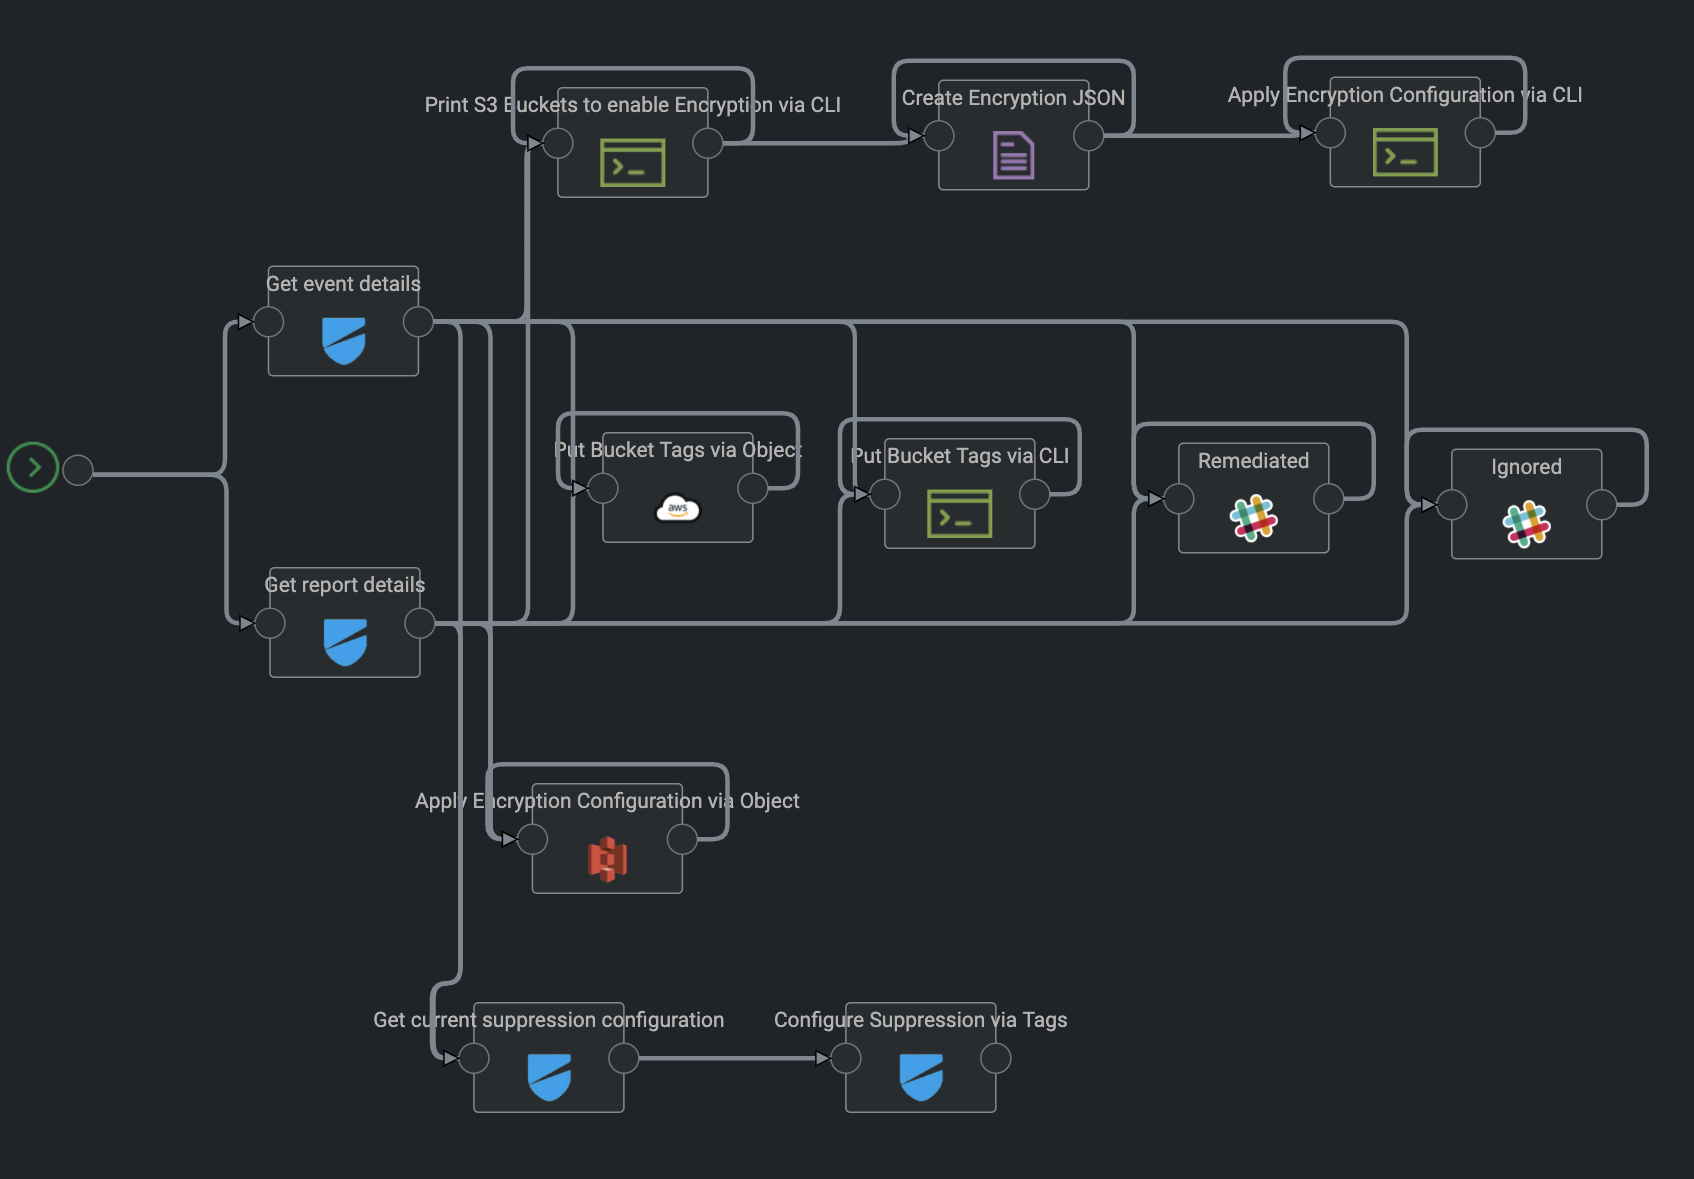
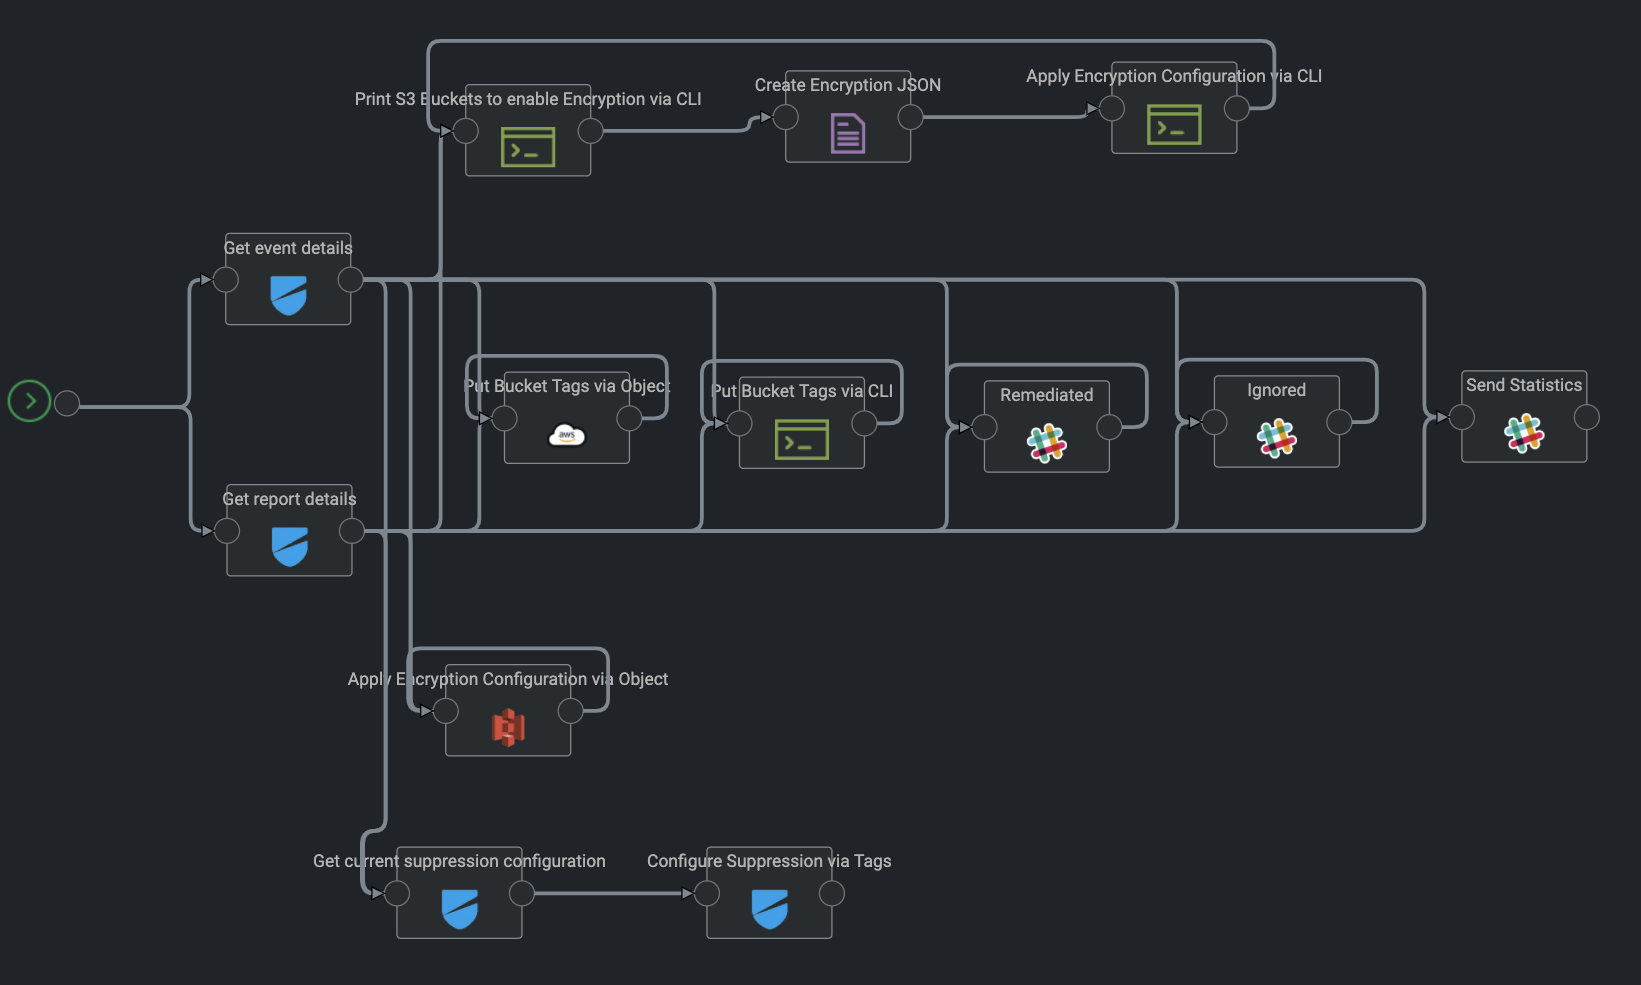
Adding new version of LW_S3_14
single actions and new slack statistic object

Changed region(s): [[0.0932, 0.2132, 0.9945, 0.9442], [0.2176, 0.0305, 0.9324, 0.1827], [0.0, 0.3655, 0.1554, 0.4264]]

diff --git a/maps/compliance/aws/LW_S3_14/README.md b/maps/compliance/aws/LW_S3_14/README.md
@@ -51,15 +51,14 @@ The **LW_S3_14** map currently has the following map design:
 
 * The map will start with the **Get event details** object when it was triggered by the [Lacework Trigger](https://github.com/Kaholo/kaholo-trigger-lacework). It will use the **event_id** send by the [Webhook payload](https://support.lacework.com/hc/en-us/articles/360034367393-Webhook), using the **Lacework API Access Key(s)** and  **Lacework Secret Key(s)** from the Kaholo vault that you used to configure the [Lacework Plugin](https://github.com/Kaholo/kaholo-plugin-lacework) to connect to the API. The Method **Get event details** will create a [temporary API token](https://support.lacework.com/hc/en-us/articles/360011403853-Generate-API-Access-Keys-and-Tokens). This token is used to query the [Lacework API](https://lwcs.lacework.net/api/v1/external/docs) via the API call **/api/v1/external/events/GetEventDetails** of the configured [Lacework Plugin](https://github.com/Kaholo/kaholo-plugin-lacework) host instance. The return value of this API call is the complete Event Payload you can use within the Map.
 * The map will start with the **Get report details** object when the map was manually started by a user of the map. It will use the **Lacework API Access Key(s)** and  **Lacework Secret Key(s)** from the Kaholo vault that you used to configure the [Lacework Plugin](https://github.com/Kaholo/kaholo-plugin-lacework). The Method **GetLatestAWSComplianceReportDetails** will create a [temporary API token](https://support.lacework.com/hc/en-us/articles/360011403853-Generate-API-Access-Keys-and-Tokens). This token is used to query the [Lacework API](https://lwcs.lacework.net/api/v1/external/docs) via the API call **/api/v1/external/compliance/aws/GetLatestComplianceReport** for the **reporttype** of the **LaceworkConfig**  configured [Lacework Plugin](https://github.com/Kaholo/kaholo-plugin-lacework) host instance that is using the **aws_account_id** of the **LaceworkConfig** as a parameter.
-* The map will trigger the **Delete Bucket Policy via CLI** CommandLine object If you enabled the Auto Remediation inside the LaceworkConfig of the map by using the **"dothedeletebucketpolicyremediationviacli": "true"** setting. It will print out the name of the S3 buckets that will be remediated, creates a backup of the current bucket policy of each S3 bucket inside the folder **backupfolder** of the LaceworkConfig and uses the AWS CLI to delete the Bucket Policy of the S3 buckets affected.
-* The map will trigger the **Create Backup via CLI**, **Create the news JSON file** and  **Replace Bucket Policy via CLI** CommandLine object If you enabled the Auto Remediation inside the LaceworkConfig of the map by using the **"dothereplacebucketpolicyremediationviacli": "true"** setting. It will print out the name of the S3 buckets that will be remediated, creates a backup of the current bucket policy of each S3 bucket inside the folder **backupfolder** of the LaceworkConfig, uses the Kaholo TextEditor Object to create a new Bucket Policy inside the **inputfolder** of the LaceworkConfig and uses the AWS CLI to put the new bucket policy of the JSON file to the S3 buckets affected.
-* The map will trigger the **Backup Bucket Policy via Object** and **Delete Bucket Policy via Object option** Amazon-aws-s3 object If you enabled the Auto Remediation inside the LaceworkConfig of the map by using the **"dothedeletebucketpolicyremediationviaobject": "true"** setting. It will remediate all S3 buckets by first creating a Backup of the Bucket Policy using the Method **"Get Bucket Policy"** from the [S3 bucket plugin](https://github.com/Kaholo/kaholo-plugin-amazon-s3). After that it will delete the bucket policy of the S3 bucket by using the Method **"Delete Bucket Policy"** from the [S3 bucket plugin](https://github.com/Kaholo/kaholo-plugin-amazon-s3).
-* The map will trigger the **Backup Bucket Policy via Object**, **Create the new JSON** and **Replace Bucket Policy via Object option** Amazon-aws-s3 object If you enabled the Auto Remediation inside the LaceworkConfig of the map by using the **"dothereplacebucketpolicyremediationviaobject": "true"** setting. It will remediate all S3 buckets by first creating a Backup of the Bucket Policy using the Method **"Get Bucket Policy"** from the [S3 bucket plugin](https://github.com/Kaholo/kaholo-plugin-amazon-s3). After that it will create a new Bucket Policy JOSN file for documentation by using the [Text Editor plugin](https://github.com/Kaholo/kaholo-plugin-textEditor) The last object will delete the bucket policy of the S3 bucket by using the Method **"Delete Bucket Policy"** from the [S3 bucket plugin](https://github.com/Kaholo/kaholo-plugin-amazon-s3).
+* The map will trigger the **Print S3 Buckets to enable Encryption via CLI**, **Create Encryption via JSON** and  **Apply Encryption Configuration via CLI** CommandLine object If you enabled the Auto Remediation inside the LaceworkConfig of the map by using the **"dothereplacebucketpolicyremediationviacli": "true"** setting. It will print out the name of the S3 buckets that will be remediated, uses the Kaholo TextEditor Object to create a new Bucket Policy inside the **inputfolder** of the LaceworkConfig and uses the AWS CLI to put the new bucket encryption configuration of the JSON file to the S3 buckets affected.
+* The map will trigger the **Apply Encryption Configuration via Object** Amazon-aws-s3 object If you enabled the Auto Remediation inside the LaceworkConfig of the map by using the **"dothedeletebucketpolicyremediationviaobject": "true"** setting. It will remediate all S3 buckets by enable the Encryption of the S3 bucket by using the **"Manage Bucket Encryption"** from the [S3 bucket plugin](https://github.com/Kaholo/kaholo-plugin-amazon-s3).
 * The map will trigger the **Put Bucket Tags via Object** object if you configured the **putbuckettaggingviaobject** of the **LaceworkConfig** equals **true**. It will use the **tagname** and **tagvalue** to put these tags for every bucket that is in violation with the rule and ignored via the **bucketIgnoreList** of the **LaceworkConfig**.
 * The map will trigger the **Put Bucket Tags via CLI** object if you configured the **putbuckettaggingviacli** of the **LaceworkConfig** equals **true**. It will use the **tagname** and **tagvalue** to put these tags for every bucket that is in violation with the rule and ignored via the **bucketIgnoreList** of the **LaceworkConfig**.
 * The map will send out a Slack message for each S3 bucket that will be remediated to the Webhook you configured by using the **Remediated** Slack object.
 * If you enabled the configuration to send out slack messages for ignored S3 buckets inside the LaceworkConfig of the map to **"sendslackmessagesforignored": "true"** it will send out a slack message for each bucket that is violating the policy and ignored by the configuration to the Webhook you configured for the **Ignored** Slack object.
 * The map will trigger the **Get current suppression configuration** if you configured the **configuresuppressiononpolicy** equals **true**. It will read out the current suppression configuration for the **rec_id** and reconfigure it with the object **Configure Suppression via Tags** to the configuration **tagname**, **tagvalue** and **suppressionpolicycomment** if the current tag name is not equal **tagname** and/or the current tag value is not equal **tagvalue**.
+* The map will trigger the **Send Statistics** if you configured the **sendslackstatistics** equals **true** it will send out some statistics about number of S3 buckets violating the policy, number of S3 buckets that will be remediated, number of S3 buckets that will be ignored and the total number of S3 buckets that are configured to be ignored if they are a resource of this event.
 
 ### Map trigger
 
@@ -92,7 +91,9 @@ By default the map has the following configurations:
     "reportuuid": "0ada522a-6887-447a-962d-83b266faa6b4",
     "enablebucketencryptionviacli": "false",
     "enablebucketencryptionviaobject": "false",
+    "sendslackmessagesforremediation": "false",
     "sendslackmessagesforignored": "false",
+    "sendslackstatistics": "false",
     "bucketIgnoreList":[
         "arn:aws:s3:::mybucket01",
         "arn:aws:s3:::mybucket02",
@@ -229,6 +230,10 @@ If you don't have Slack or don't need Slack messages feel free to simply remove 
 
 4. **sendslackmessagesforignored (Optional):** you can disable within the **LaceworkConfig** via the setting equals **false** to not send out Slack messages for S3 buckets that are violating the policy but are ignored via the **bucketIgnoreList**. By default this is configured to **true**. Reason behind is that it is best practice to suppress S3 buckets that should not be Auto Remediated by using Tags within AWS so you can configure a Suppress rule within Lacework to simply ignore them and not create events and alerts. You can use the setting **putbuckettaggingviacli** or **putbuckettaggingviaobject** to add the **tagname** and **tagvalue** for each S3 bucket that is ignored.
 
+5. If you configure the **autoremediationonlyfornewviolations** equals **true** the Auto Remediation will only be done for new Resource Violations on S3 buckets within new Events. With that you avoid that the AutoRemedation is doing it for all (new and already existing violations) of S3 buckets. This doesn't have any effect if you do the AutoRemedation via Reports, as reports have no differences between new and already existing violating resources. By default this setting is configured equals **false**.
+
+6. If you configure the **sendslackstatistics** equals **true** it will send out some statistics about number of S3 buckets violating the policy, number of S3 buckets that will be remediated, number of S3 buckets that will be ignored and the total number of S3 buckets that are configured to be ignored if they are a resource of this event.
+
 ## Build an example curl webhook
 
 There is no need to wait for Lacework sending the Webhook Alert for the generated Event when you want to test the map. If you plan to test it immediately, you can trigger the map by using a simple curl command that will send the necessary information.
@@ -309,6 +314,10 @@ You need to define the following least privilege policy inside your AWS IAM conf
 ```
 
 ## What features are supported with this Map? Release Notes
+The Map Version 1.2 (7th of October 2021) supports the following additional features on top of the Map Version  1.1:
+* using single actions objects and new loops with simplified code.
+* allowing to optional disable slack messages also for resources that need to be remediated.
+* allowing to send slack statistic messages about number of S3 buckets in total, remediated and ignored.
 
 The Map Version 1.1 (27th of August 2021) supports the following additional features on top of the Map Version 1.0:
 * Supporting the new Webhook Events that now have a dedicated rec_id field. All variables have been updated to the new rec_id field.

diff --git a/maps/compliance/aws/LW_S3_13/README.md b/maps/compliance/aws/LW_S3_13/README.md
@@ -59,6 +59,7 @@ The **LW_S3_13** map currently has the following map design:
 * The map will send out a Slack message for each S3 bucket that will be remediated to the Webhook you configured by using the **Remediated** Slack object.
 * If you enabled the configuration to send out slack messages for ignored S3 buckets inside the LaceworkConfig of the map to **"sendslackmessagesforignored": "true"** it will send out a slack message for each bucket that is violating the policy and ignored by the configuration to the Webhook you configured for the **Ignored** Slack object.
 * The map will trigger the **Get current suppression configuration** if you configured the **configuresuppressiononpolicy** equals **true**. It will read out the current suppression configuration for the **rec_id** and reconfigure it with the object **Configure Suppression via Tags** to the configuration **tagname**, **tagvalue** and **suppressionpolicycomment** if the current tag name is not equal **tagname** and/or the current tag value is not equal **tagvalue**.
+* The map will trigger the **Send Statistics** if you configured the **sendslackstatistics** equals **true** it will send out some statistics about number of S3 buckets violating the policy, number of S3 buckets that will be remediated, number of S3 buckets that will be ignored and the total number of S3 buckets that are configured to be ignored if they are a resource of this event.
 
 ### Map trigger
 
